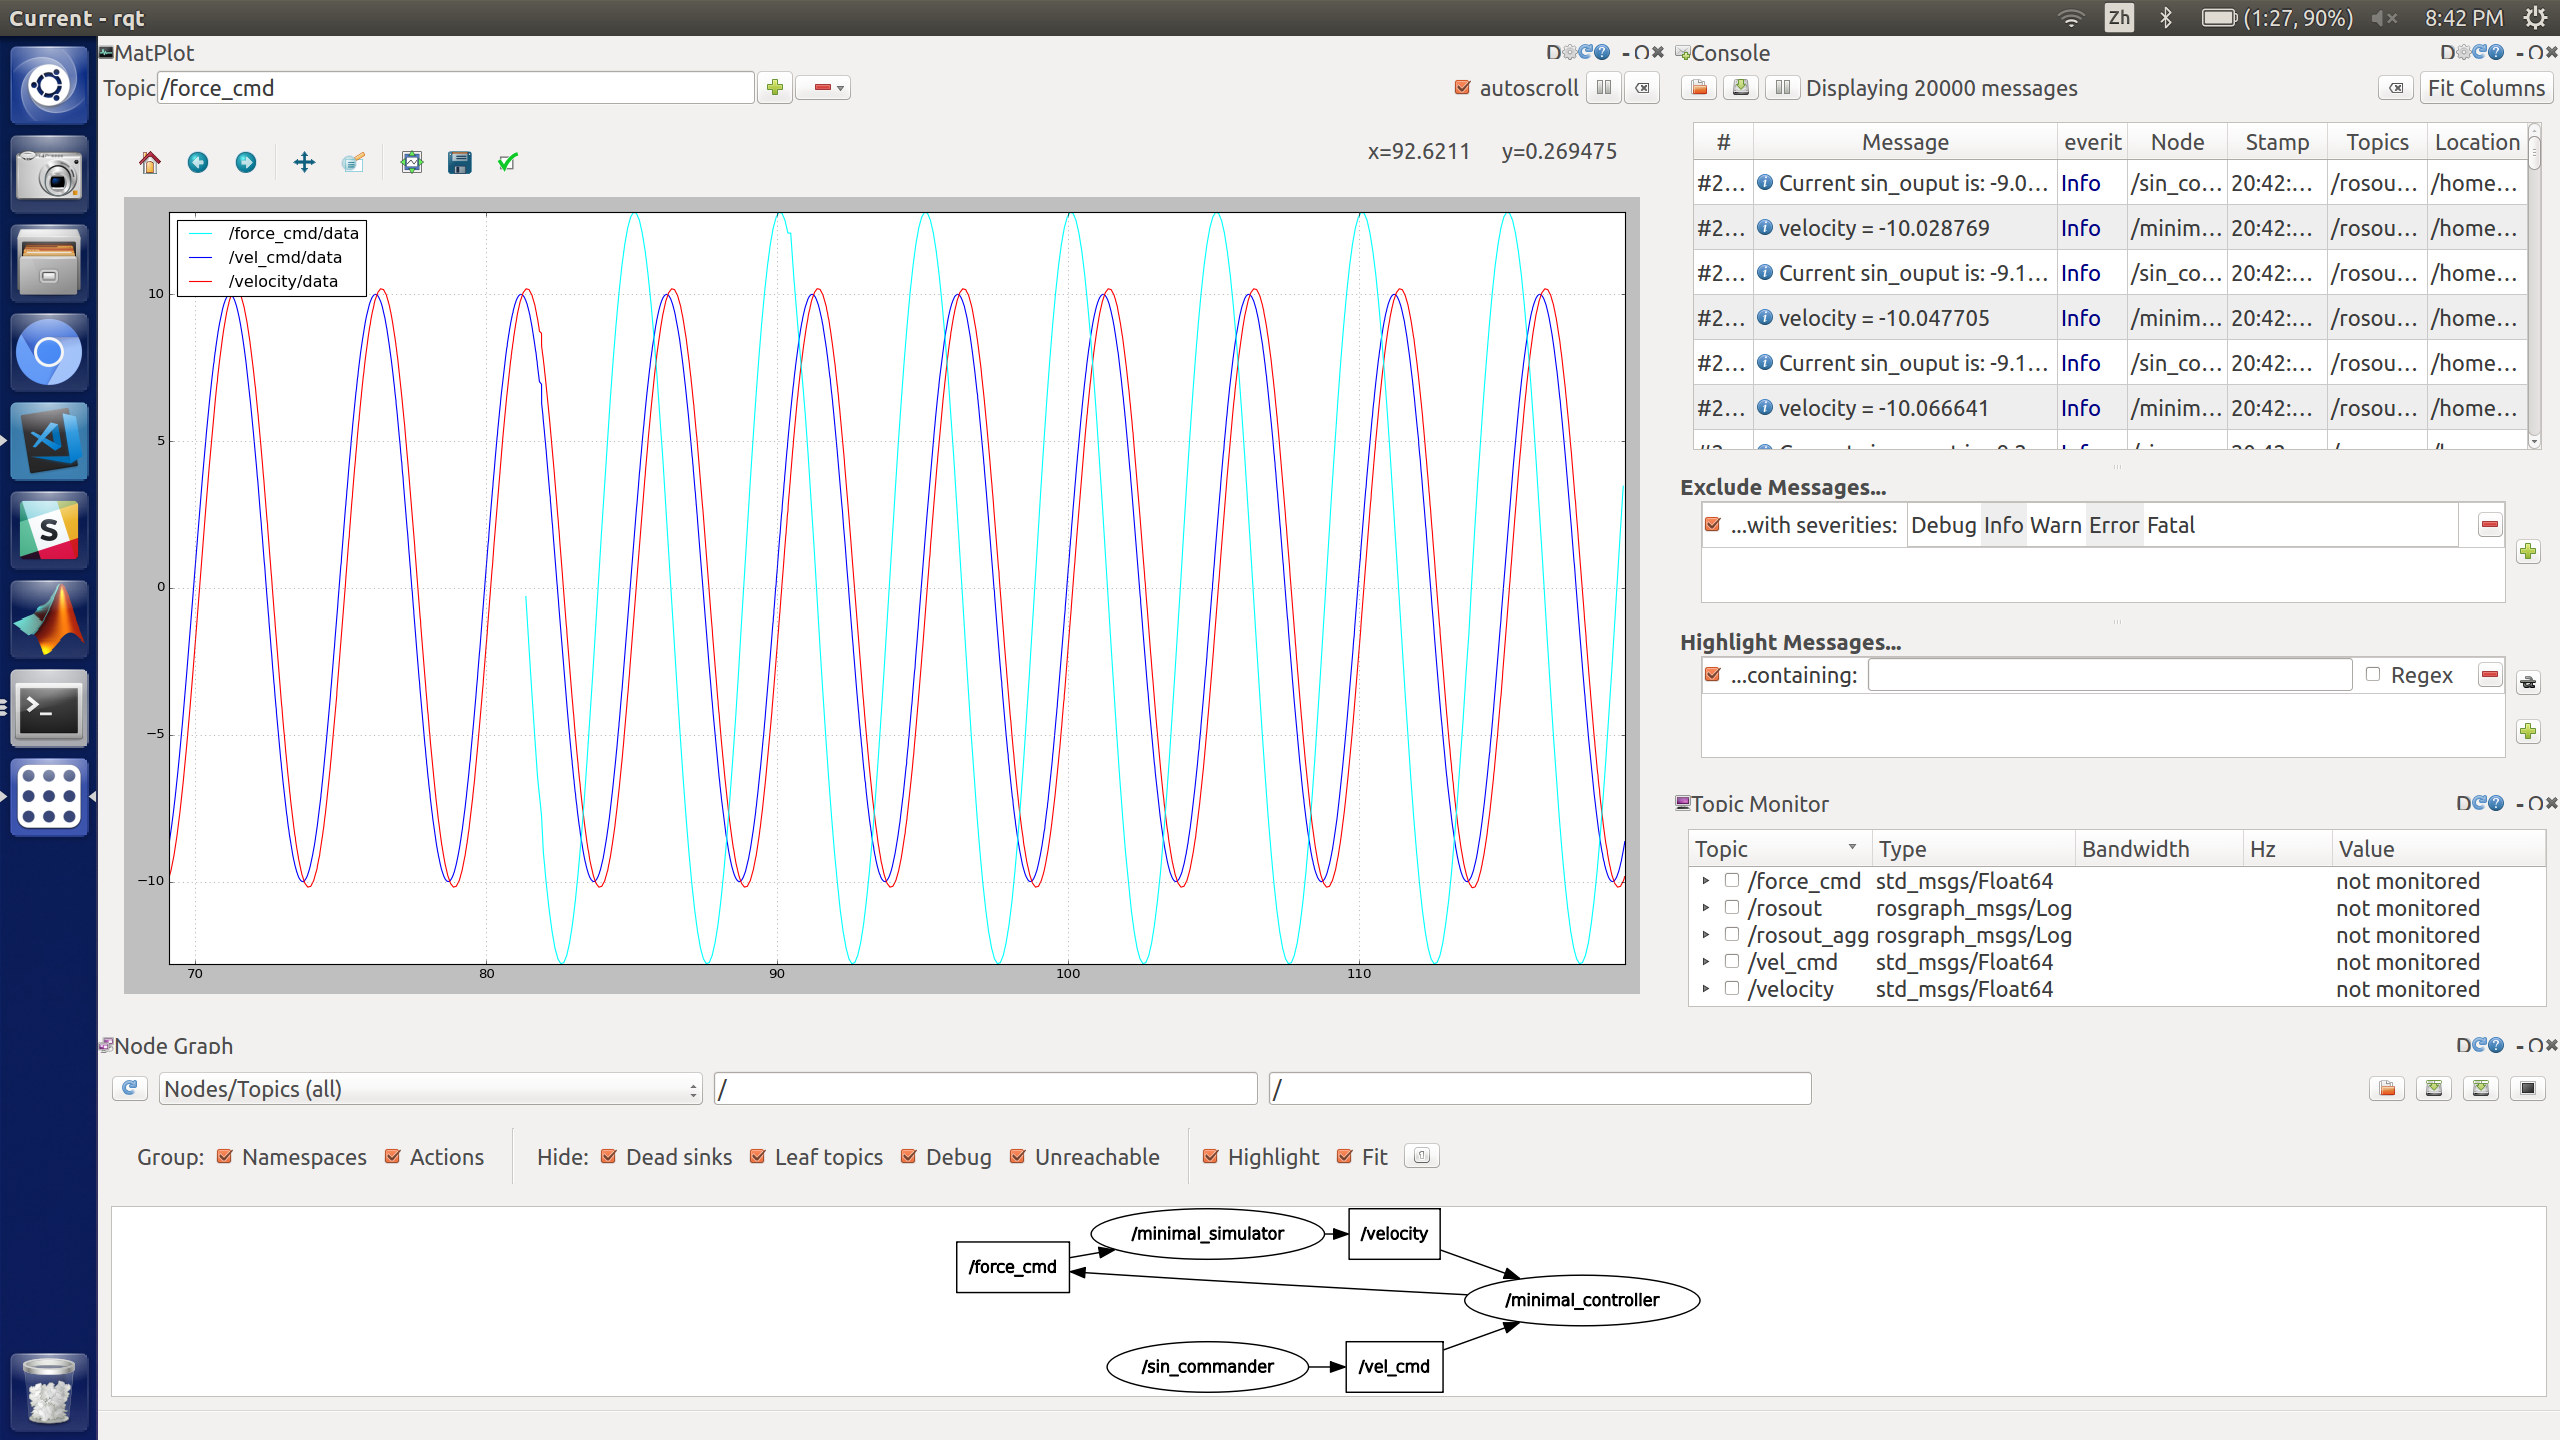
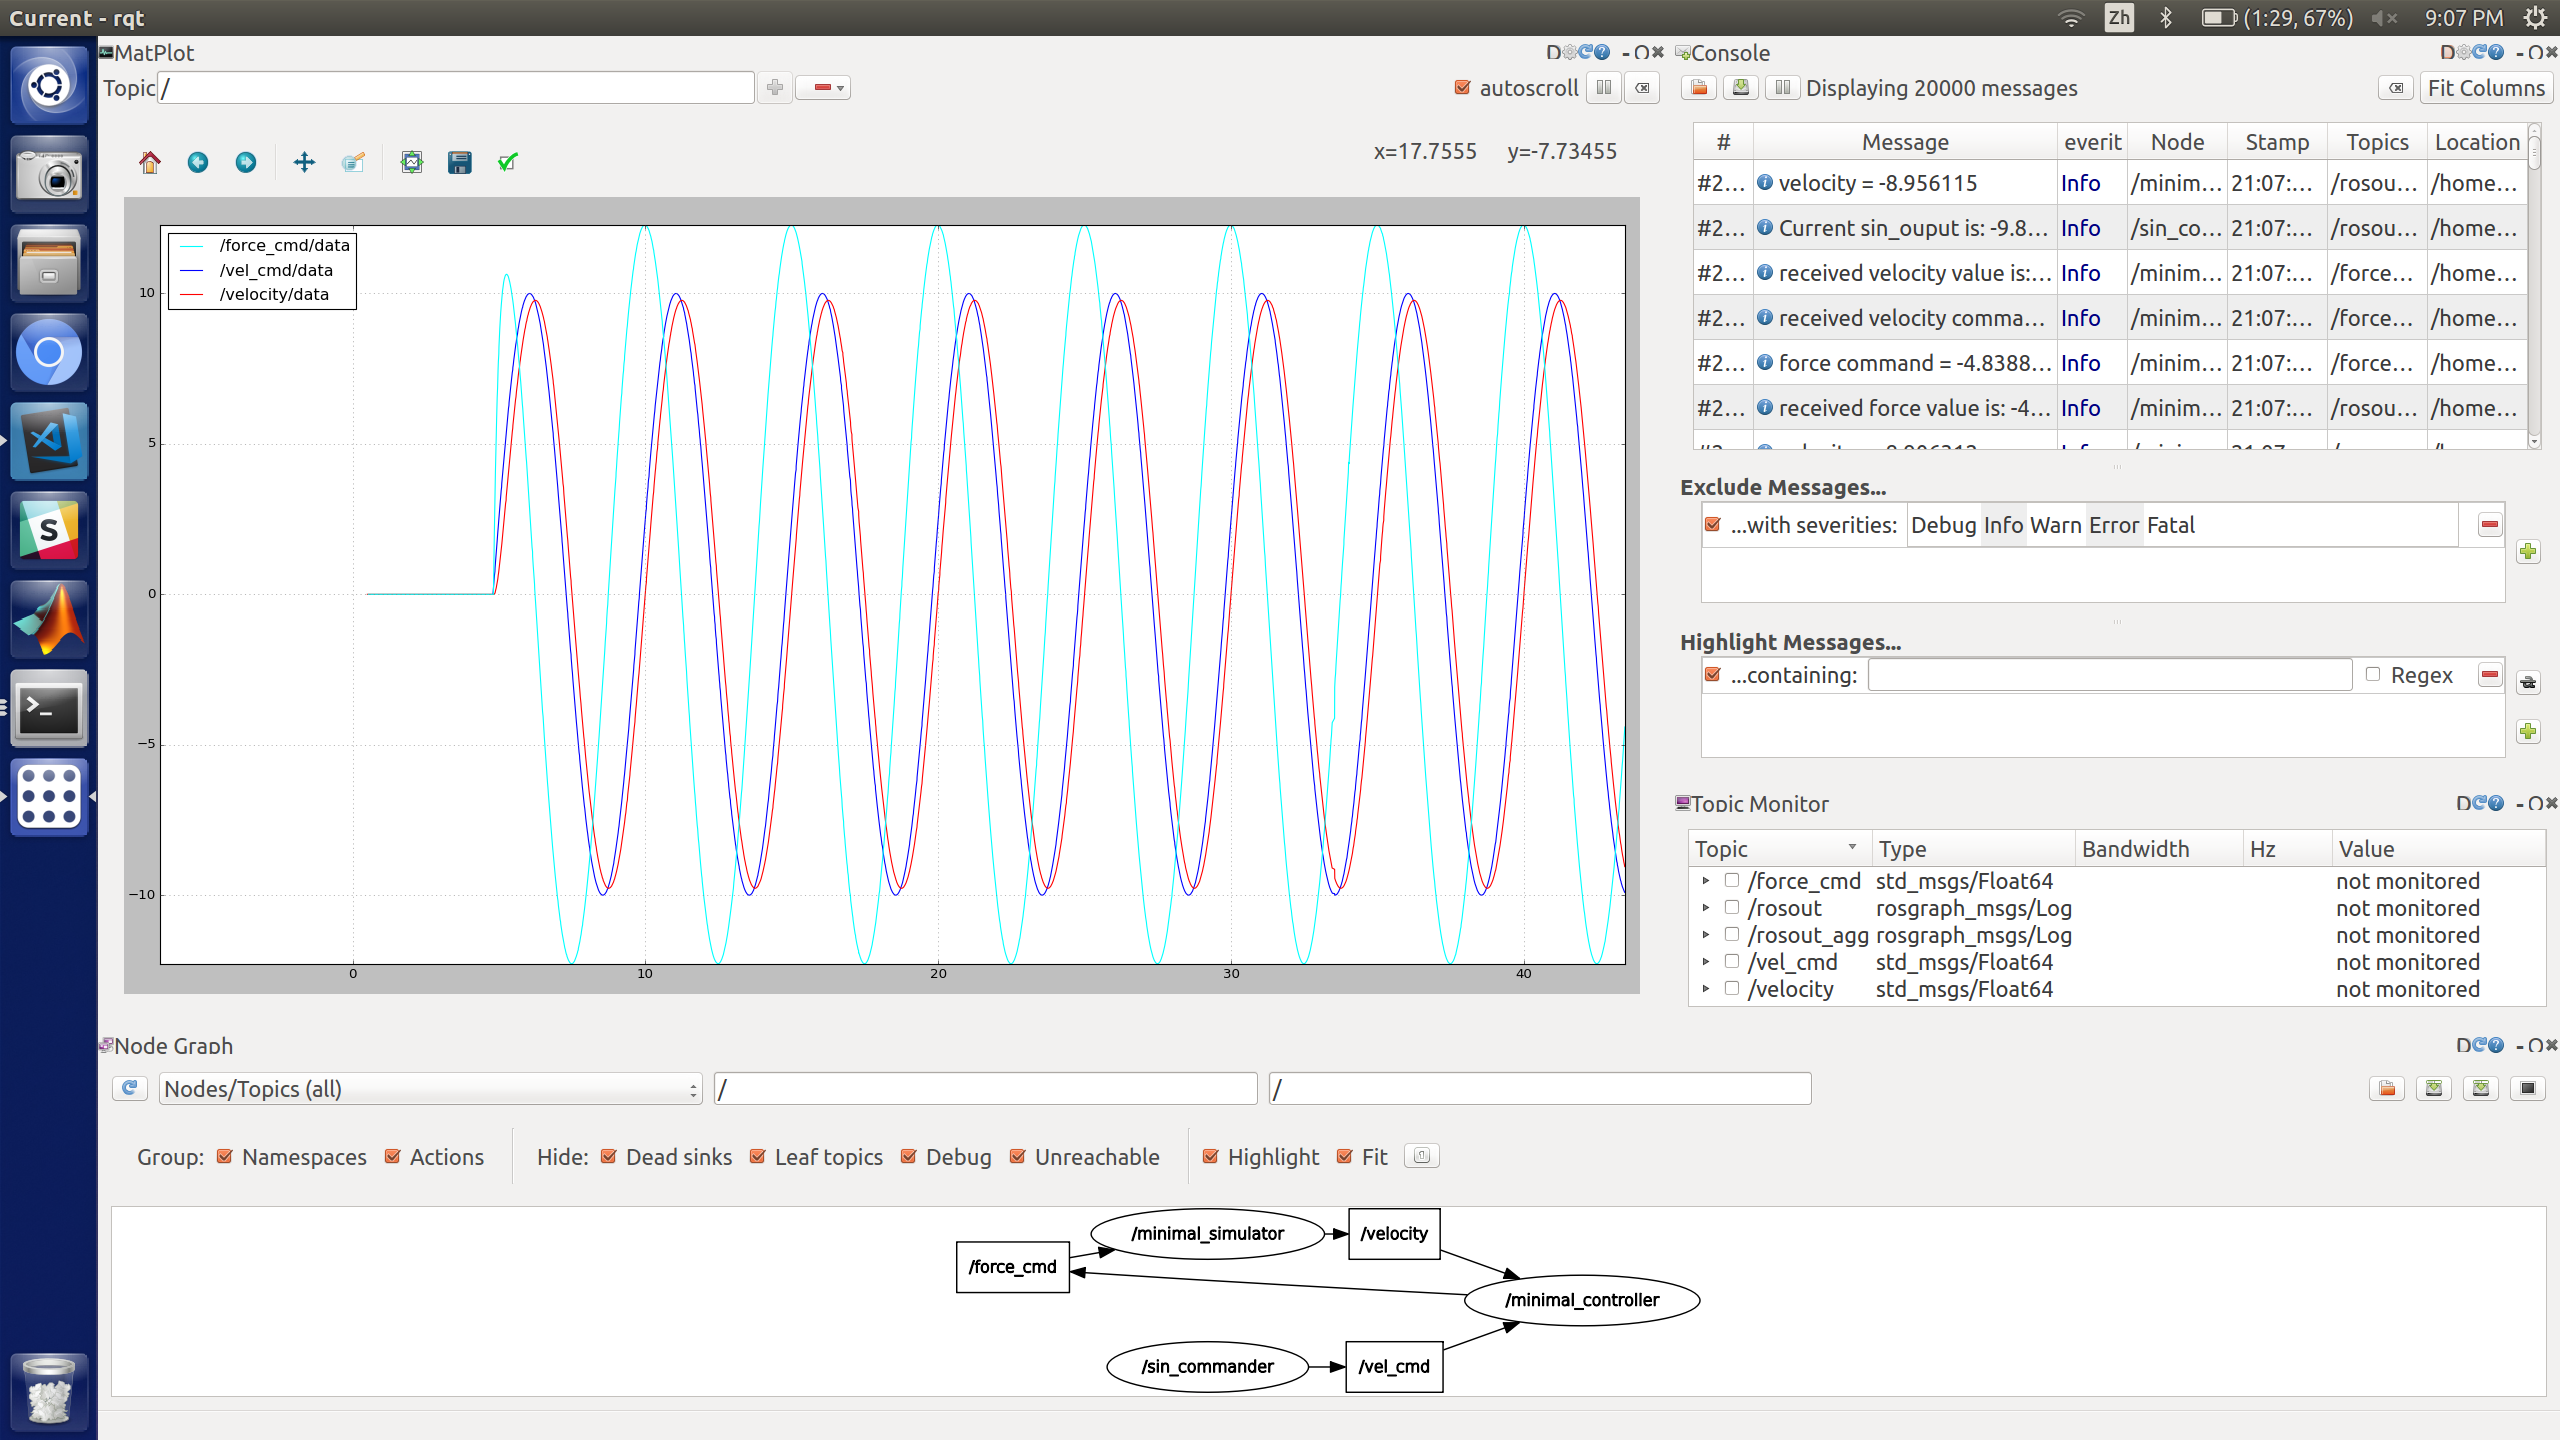
fixed the issue of de in commander not in sync, added screenshot and deleted useless ones.

diff --git a/src/minimal_controller.cpp b/src/minimal_controller.cpp
@@ -33,7 +33,7 @@ int main(int argc, char **argv) {
     //publish a force command computed by this controller; 
     ros::Publisher my_publisher_object = nh.advertise<std_msgs::Float64>("force_cmd", 1);
     double Kv = 5.0; // velocity feedback gain 
-    double dt_controller = 0.1; //specify 10Hz controller sample rate (pretty slow, but 
+    double dt_controller = 0.01; //specify 10Hz controller sample rate (pretty slow, but 
     //illustrative) 
     double sample_rate = 1.0 / dt_controller; // compute the corresponding update frequency 
     ros::Rate naptime(sample_rate); // use to regulate loop rate 
